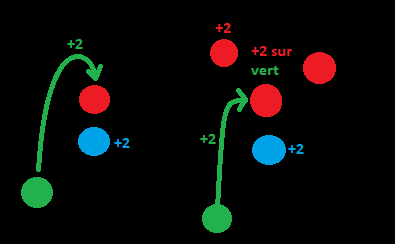
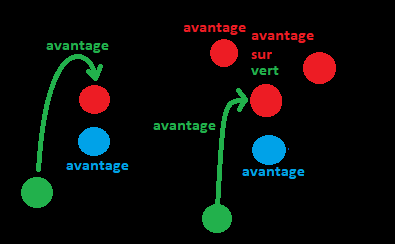
Quartz sync: Sep 30, 2025, 9:01 PM

diff --git a/content/index.md b/content/index.md
@@ -6,35 +6,37 @@ title: Astoria Wiki
 - **Aventuriers**
 	- [[Tifanny]]
 	- [[Célestin]]
-	- [[AstoriaWiki/Aventuriers/Martin]]
-	- [[Nono]] ?
+	- [[Martin]]
+	- [[Nono]]
 
 - **Liens utiles**
-	- **[[Règles maisons]]**
+	- [[Règles maisons]]
 	- [[Sorts]]
 	- [[Armes]]
 	- [[Armures]]
 
 - **Lore** :
 	- **Panthéon :**
-		- [Aelrith](Aelrith.md)
-		- [Kraëlor](Kraëlor.md)
-		- [Thalvorys](Thalvorys.md)
-		- [Elvara](Elvara.md)
-		- [Nivara](Nivara.md)
-		- [Sylvannor](Sylvannor.md)
-		- [Thyrenia](Thyrenia.md)
-		- [Zornak](Zornak.md)
-		- [Eryndis](Eryndis.md)
-		- [Zorynth](Zorynth.md)
+		- [Aelrith](Aelrith_Wiki.md)
+		- [Elvara](Elvara_Wiki)
+		- [Erythis](Erythis_Wiki)
+		- [Kraëlor](Kraëlor_Wiki.md)
+		- [Lolth](Lolth_Wiki)
+		- [Morgrin](Morgrin_Wiki)
+		- [Nivara](Nivara_Wiki.md)
+		- [Sylvannor](Sylvannor_Wiki.md)
+		- [Thalvorys](Thalvorys_Wiki)
+		- [Thyrenia](Thyrenia_Wiki.md)
+		- [Tiamat](Tiamat_Wiki)
+		- [Xarion](Xarion_Wiki)
 	- **Royaume** :
-		- [Confédération de Valdoria](Confédération_de_Valdoria.md)
-		- [Empire Kragmorn](Empire_Kragmorn)
-		- [Royaume d'Elvaris](Royaume_d'Elvaris)
-		- [Sultanat d'Arcantor](Sultanat_d'Arcantor)
-		- [Technocratie Edarion](Technocratie_Edarion)
-		- [Terres Perdues](AstoriaWiki/Lore/Royaume/Terres_Perdues.md)
-		- [Théocratie Ondaile](Théocratie_Ondaile.md)
+		- [Confédération de Valdoria](Confédération_de_Valdoria_Wiki.md)
+		- [Empire Kragmorn](Empire_Kragmorn_Wiki.md)
+		- [Royaume d'Elvaris](Royaume_d'Elvaris_Wiki.md)
+		- [Sultanat d'Arcantor](Sultanat_d'Arcantor_Wiki.md)
+		- [Technocratie Edarion](Technocratie_Edarion_Wiki.md)
+		- [Terres Perdues](Terres_Perdues_Wiki.md)
+		- [Théocratie Ondaile](Théocratie_Ondaile_Wiki.md)
 
 - **Notes de séances**
 	- [[Séance 1]]

diff --git a/content/Lore/Panthéon/Lolth_Wiki.md b/content/Lore/Panthéon/Lolth_Wiki.md
@@ -1,0 +1,14 @@
+---
+title: Lolth
+---
+- **Déesse** : Nouvelle
+- **Domaines** : Torture / Assassin / Voleur
+- **Alignement** : Neutre mauvais
+- **Surnom** : _La mère des Araignées_
+- **Apparence** : Magnifique jeune drow ou mi-femme, mi-araignée monstrueuses selon ses humeurs
+- **Popularité** : Chez les drows et les assassins
+
+Son symbole représente une araignée avec une tête de mort et des crocs prêt à frapper.
+
+![[Lolth - Symbole.png]]
+

diff --git a/content/Lore/Quick lore.md b/content/Lore/Quick lore.md
@@ -3,28 +3,28 @@ Récapitulatif de quelques éléments de lore important du monde d'Astoria.
 ### **Géographie**
 
 - Carte d'Astoria :
-	![[AstoriaWiki/Images/Astoria - Final.png]]
+	![[Campagne/AstoriaWiki/Images/Astoria - Final.png]]
 - Astoria est un continent séparé en 7 royaumes.
 - Il y a 6 royaumes continentales :
-	- [Technocratie Edarion](Technocratie_Edarion) :
+	- [Technocratie Edarion](Technocratie_Edarion_Wiki.md) :
 		- Multiculturel, toute les races ont des représentants vivants à Edarion.
 		- Technologie, l'empire est à la pointe de la technologie, mêlant magie et mécanique.
 		- Expansionniste, l'empire s'est formé sur un territoire des Terres Perdues et continue de revendiquer des morceau de ces terres inhabités.
-	- [Empire Kragmorn](Empire_Kragmorn) :
+	- [Empire Kragmorn](Empire_Kragmorn_Wiki.md) :
 		- Principalement composé d'humain, de nains et d'orques.
 		- Militariste, l'Empire a grandi par la force et possède les meilleurs soldats et armées d'Astoria.
 		- Alchimie, les recherches de l'Empire sont dédié à la manipulation humaine via l'alchimie, inventant élixir et sérum pour renforcer ses soldats.
-	- [Confédération de Valdoria](Confédération_de_Valdoria) :
+	- [Confédération de Valdoria](Confédération_de_Valdoria_Wiki.md) :
 		- Rassemblement des plus anciennes Cités-Etats d'Astoria, berceau de la civilisation, la confédération possède une riche histoire.
 		- Cœur commerciales d'Astoria de par sa position centrale sur la carte.
 		- Traditionnel, très attaché à son passé, la Confédération a une vue très conservatrice dans sa gestion.
-	- [Théocratie Ondaile](Théocratie_Ondaile)
+	- [Théocratie Ondaile](Théocratie_Ondaile_Wiki.md)
 		- Royaume composé d'une grande ville, lieu de pèlerinage et de spiritualité.
 		- Cœur religieux d'Astoria, toute les divinités vénérés ont leur temple principale à Ondaile.
-	- [Royaume d'Elvaris](Royaume_d'Elvaris)
+	- [Royaume d'Elvaris](Royaume_d'Elvaris_Wiki.md)
 		- Royaume elfique isolé géographiquement.
 		- Conservateur, leur isolement ajouté à l'ego des elfes a fait d'Elvaris un royaume particulièrement conservateur, désapprouvant fortement les mœurs progressif des autres royaumes.
-	- [Sultanat d'Arcantor](Sultanat_d'Arcantor)
+	- [Sultanat d'Arcantor](Sultanat_d'Arcantor_Wiki.md)
 		- Royaume majoritairement insulaire.
 		- Puissance commerciale importante et responsable de la majorité du transport commerciale maritime et terrestre d'Astoria.
 - Un royaume isolé dans les profondeurs de l'océan, le royaume d'Atlantis.

diff --git a/content/Lore/Panthéon/Aelrith_Wiki.md b/content/Lore/Panthéon/Aelrith_Wiki.md
@@ -1,0 +1,12 @@
+---
+title: Aelrith
+---
+- **Dieu** : Ancien
+- **Domaines** : Magie / Destin / Choix
+- **Alignement** : Neutre Bon
+- **Surnom** : _Le Tisseur_
+- **Apparence** : Humanoïde masculin composé de milliers de fils scintillants formant la Trame d'Astoria
+- **Popularité** : Chez les mages, oracles et savants
+
+Son symbole est un oeil vide sur un fond noir, observant tout ce qu'il se passe.
+![[Aelrith - Symbole Wiki.png]]

diff --git a/content/Lore/Panthéon/Elvara_Wiki.md b/content/Lore/Panthéon/Elvara_Wiki.md
@@ -1,0 +1,12 @@
+---
+title: Elvara
+---
+- **Déesse** : Ancienne
+- **Domaines** : Vie / Lumière / Agriculture
+- **Alignement** : Loyal Bon
+- **Surnom** : _La Mère Nourricière_
+- **Apparence** : Femme majestueuse portant des boisseaux et graines, ses pas faisant fleurir son passage
+- **Popularité** : chez les agriculteurs et le corps médical
+
+Son symbole représente une jeune pousse grandissant sur une gemme. 
+![[Campagne/Astoria/Banques d'images/Panthéon/Elvara/Elvara - Symbole.png]]

diff --git a/content/Lore/Panthéon/Erythis_Wiki.md b/content/Lore/Panthéon/Erythis_Wiki.md
@@ -1,0 +1,12 @@
+---
+title: Erythis
+---
+- **Dieu** : Nouveau
+- **Domaines** : Ambition / Richesse / Opportunités
+- **Alignement** : Loyal mauvais
+- **Surnom** : _Le Collectionneur_
+- **Apparence** : Silhouette androgyne drapée de tissus de sois pourpre et aux yeux brillant comme une gemme
+- **Popularité** : Chez les ambitieux, marchands, réfugiés
+
+Son symbole représente une étoile doré, symbole de richesse et objet de désir. 
+![[Erythis - Symbole.png]]

diff --git a/content/Lore/Panthéon/Kraëlor_Wiki.md b/content/Lore/Panthéon/Kraëlor_Wiki.md
@@ -1,0 +1,12 @@
+---
+title: Kraëlor
+---
+- **Dieu** : Ancien
+- **Domaines** : Création / Terre / Progrès
+- **Alignement** : Loyal Bon
+- **Surnom** : _Le Forgeron_
+- **Apparence** : Titan de pierre colossal couvert de veine de lave en fusion, son marteau toujours à la main
+- **Clergé** : Chez les forgerons, inventeurs et artisans
+
+Son symbole représente une enclume et un marteau entourés des flames de la création.
+![[Campagne/Astoria/Banques d'images/Panthéon/Kraelor/Kraëlor - Symbole.png]]

diff --git a/content/Lore/Panthéon/Morgrin_Wiki.md b/content/Lore/Panthéon/Morgrin_Wiki.md
@@ -1,0 +1,12 @@
+---
+title: Morgrin
+---
+- **Dieu** : Nouveau 
+- **Domaines** : Alchimie / Maladie / Survie
+- **Alignement** : Neutre
+- **Surnom** : _L'Alchimiste_
+- **Apparence** : Silhouette voilé cachant son visage, couvert de pustules et de marques de maladies violentes et mortelles
+- **Popularité** : Chez les alchimistes et les estropiés
+
+Son symbole représente une fiole remplit d'un liquide avec un bras squelettique entourant la fiole.
+![[Morgrin - Symbole.png]]

diff --git a/content/Lore/Panthéon/Nivara_Wiki.md b/content/Lore/Panthéon/Nivara_Wiki.md
@@ -1,0 +1,12 @@
+---
+title: Nivara
+---
+- **Déesse** : Ancienne
+- **Domaines** : Mort / Nuit / Rêve
+- **Alignement** : Loyal Bon
+- **Surnom** : _La Passeuse_
+- **Apparence** : Femme encapuchonnée dans un manteau d'étoiles, tenant une lanterne et éclairant le chemin des âmes.
+- **Popularité** : Chez les croque-morts, les prêtres ou la population générale
+
+Son symbole représente une lanterne perché sur une lune complète, signe de renaissance, de repos et de lumière douce à la fin de son chemin.
+![[Campagne/Astoria/Banques d'images/Panthéon/Nivara/Nivara - Symbole.png]]

diff --git a/content/Lore/Panthéon/Sylvannor_Wiki.md b/content/Lore/Panthéon/Sylvannor_Wiki.md
@@ -1,0 +1,12 @@
+---
+title: Sylvannor
+---
+- **Dieu** : Nouveau
+- **Domaines** : Nature / Sauvage / Bêtes
+- **Alignement** : Neutre Chaotique
+- **Surnom** : _Le Souverain des Forêts_
+- **Apparence** : Faune gigantesque à la peau recouverte de mousse et d'écorce
+- **Popularité** : Chez les elfes, les druides et les chasseurs
+
+Son symbole représente un cerf puissant, symbole des bêtes et de la vie sauvage.
+![[Campagne/Astoria/Banques d'images/Panthéon/Sylvannor/Sylvannor - Symbole.png]]

diff --git a/content/Lore/Panthéon/Thalvorys_Wiki.md b/content/Lore/Panthéon/Thalvorys_Wiki.md
@@ -1,0 +1,12 @@
+---
+title: Thalvorys
+---
+- **Déesse** : Ancienne
+- **Domaines** : Océan / Vent / Secrets
+- **Alignement** : Neutre chaotique
+- **Surnom** : _La Reine des profondeurs_
+- **Apparence** : Femme translucide, comme composé d'eau et parcouru de courants marins, parfois doux, parfois très violent
+- **Popularité** : Chez les marins et les explorateurs
+
+Son symbole représente un trident sur une mer déchaîné. 
+![[Campagne/Astoria/Banques d'images/Panthéon/Thalvorys/Thalvorys - Symbole.png]]

diff --git a/content/Lore/Panthéon/Thyrenia_Wiki.md b/content/Lore/Panthéon/Thyrenia_Wiki.md
@@ -1,0 +1,12 @@
+---
+title: Thyrenia
+---
+- **Déesse** : Ancienne
+- **Domaines** : Loi / Justice / Equilibre
+- **Alignement** : Loyal Bon
+- **Surnom** : _La Juge_
+- **Apparence** : Une femme imposante, vêtue d'une toge blanche et aux yeux couvert d'un bandeau d'argent
+- **Popularité** : Chez les paladins et les juges
+
+Son symbole représente une balance, signe de son domaine du jugement et de l'équilibre.
+![[Campagne/Astoria/Banques d'images/Panthéon/Thyrenia/Thyrenia - Symbole.png]]